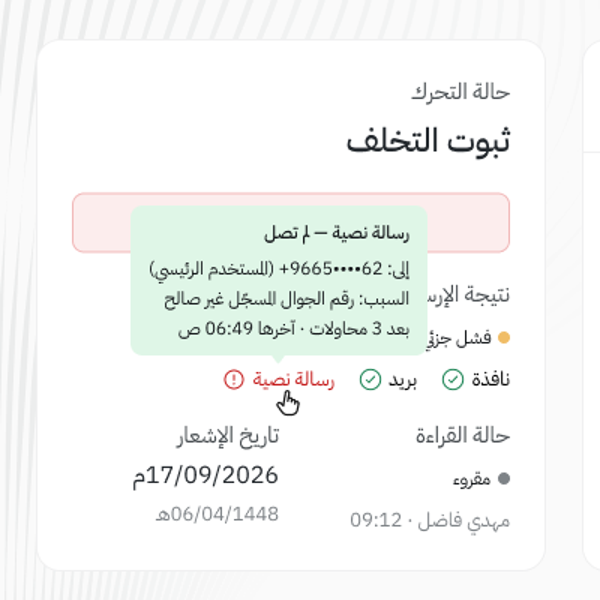
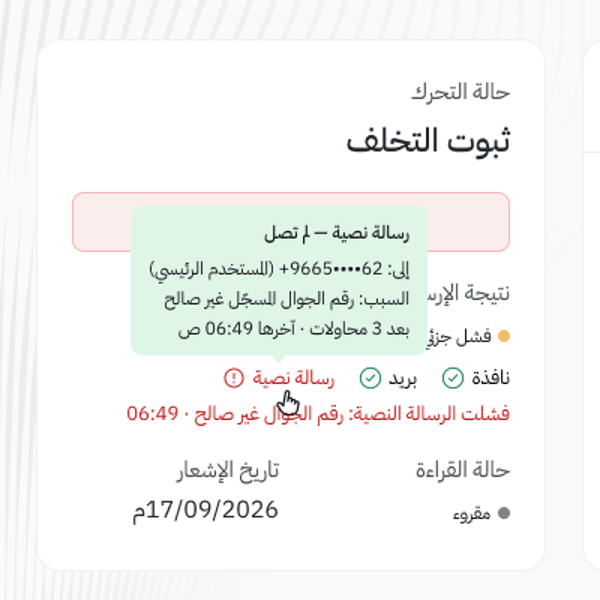
Details: show the SMS failure reason under the channels
Claude-Session: https://claude.ai/code/session_01CyctH4WFBszWbBNkvnfQuz

diff --git a/CLAUDE.md b/CLAUDE.md
@@ -189,6 +189,9 @@ All four libraries are published and reachable through `search_design_system`.
     dot neutral60, «مهدي فاضل · 09:12») | تاريخ الإشعار «17/09/2026م» + «06/04/1448هـ». The manual dots were replaced by the DS
     chip (same one the title used). Height still 355 = بيانات المعتمر. Hover state = separate frame `4629:22024` below the
     details frame: DS tooltip (desktop/arabic/down) «رسالة نصية — لم تصل» + recipient, reason, attempts, `touch-09` cursor.
+    Follow-up: «وصل لـ 2 من 3 قنوات» replaced by a ruby100 line under the channels «فشلت الرسالة النصية: رقم الجوال غير صالح ·
+    06:49» (`failure_reason`). The user hid the sub lines «مهدي فاضل · 09:12» and «06/04/1448هـ» in the pair to keep the card at 355;
+    mirrored in the hover frame. Side card and بيانات المعتمر both 355 in both frames.
     Open: list v2 shows 000412 as «غير مقروء» while details/timeline say read by مهدي فاضل 09:12 (pre-existing mismatch).
   - Next (not done): sub-status in حالة التحرك (needs the business list of sub-statuses), cards → pie charts (current cards
     contradict: totals 12 vs 7, critical 5/12 vs 2, read 7/12 vs 3).
